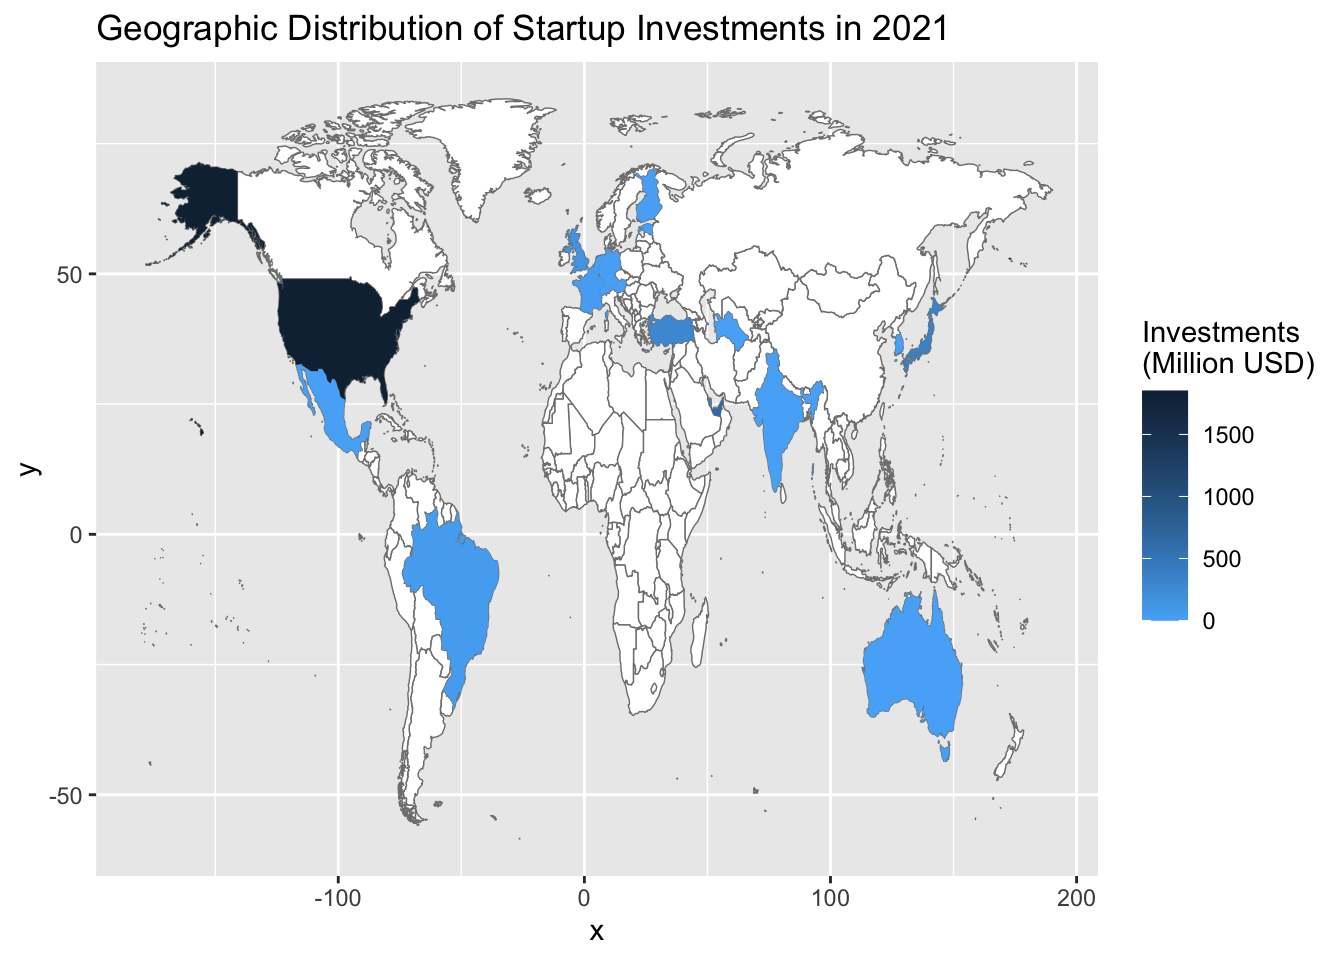
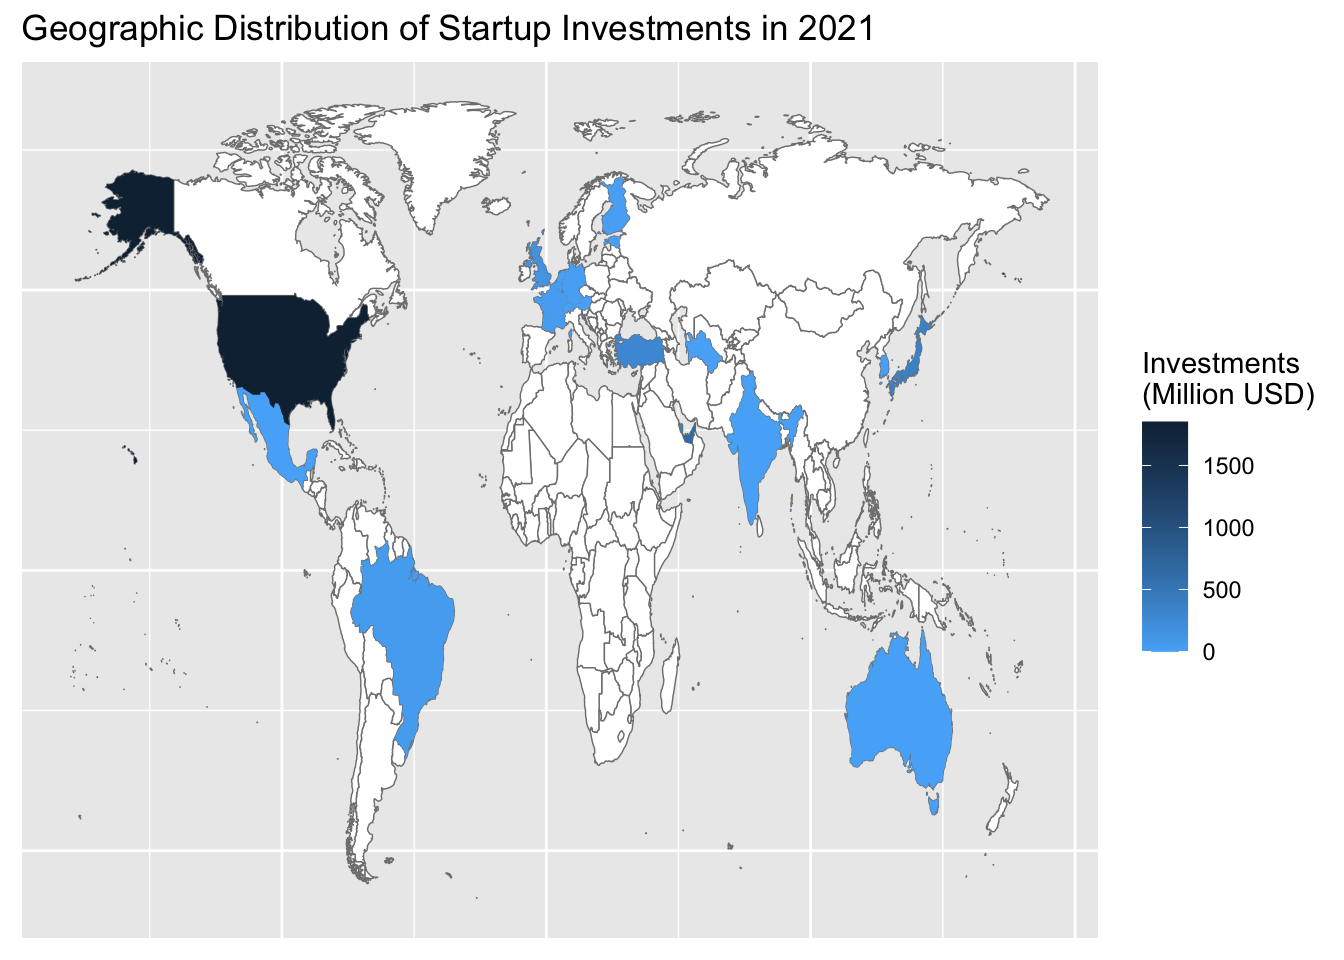
new

diff --git a/docs/assignment1.html b/docs/assignment1.html
@@ -565,7 +565,8 @@ the `.groups` argument.</code></pre>
 <span id="cb19-11"><a href="#cb19-11" aria-hidden="true" tabindex="-1"></a>  ) <span class="sc">+</span></span>
 <span id="cb19-12"><a href="#cb19-12" aria-hidden="true" tabindex="-1"></a>  <span class="fu">geom_map</span>(<span class="at">map =</span> world_map, <span class="fu">aes</span>(<span class="at">map_id =</span> country_name, <span class="at">fill =</span> country_total<span class="sc">/</span><span class="fl">1e6</span>), <span class="at">size =</span> <span class="fl">0.25</span>) <span class="sc">+</span></span>
 <span id="cb19-13"><a href="#cb19-13" aria-hidden="true" tabindex="-1"></a>  <span class="fu">scale_fill_gradient</span>(<span class="at">low =</span> <span class="st">"#56B1F7"</span>, <span class="at">high =</span> <span class="st">"#132B43"</span>, <span class="at">name =</span> <span class="st">"Investments</span><span class="sc">\n</span><span class="st">(Million USD)"</span>) <span class="sc">+</span></span>
-<span id="cb19-14"><a href="#cb19-14" aria-hidden="true" tabindex="-1"></a>  <span class="fu">expand_limits</span>(<span class="at">x =</span> world_map<span class="sc">$</span>long, <span class="at">y =</span> world_map<span class="sc">$</span>lat) <span class="sc">+</span> <span class="fu">labs</span>(<span class="at">title =</span> <span class="st">"Geographic Distribution of Startup Investments in 2021"</span>)</span></code><button title="Copy to Clipboard" class="code-copy-button"><i class="bi"></i></button></pre></div>
+<span id="cb19-14"><a href="#cb19-14" aria-hidden="true" tabindex="-1"></a>  <span class="fu">expand_limits</span>(<span class="at">x =</span> world_map<span class="sc">$</span>long, <span class="at">y =</span> world_map<span class="sc">$</span>lat) <span class="sc">+</span> <span class="fu">labs</span>(<span class="at">title =</span> <span class="st">"Geographic Distribution of Startup Investments in 2021"</span>) <span class="sc">+</span></span>
+<span id="cb19-15"><a href="#cb19-15" aria-hidden="true" tabindex="-1"></a>  <span class="fu">theme</span>(<span class="at">axis.text =</span> <span class="fu">element_blank</span>(), <span class="at">axis.title =</span> <span class="fu">element_blank</span>(), <span class="at">axis.ticks =</span> <span class="fu">element_blank</span>())</span></code><button title="Copy to Clipboard" class="code-copy-button"><i class="bi"></i></button></pre></div>
 <div class="cell-output-display">
 <p><img src="assignment1_files/figure-html/unnamed-chunk-6-3.png" class="img-fluid" width="672"></p>
 </div>
